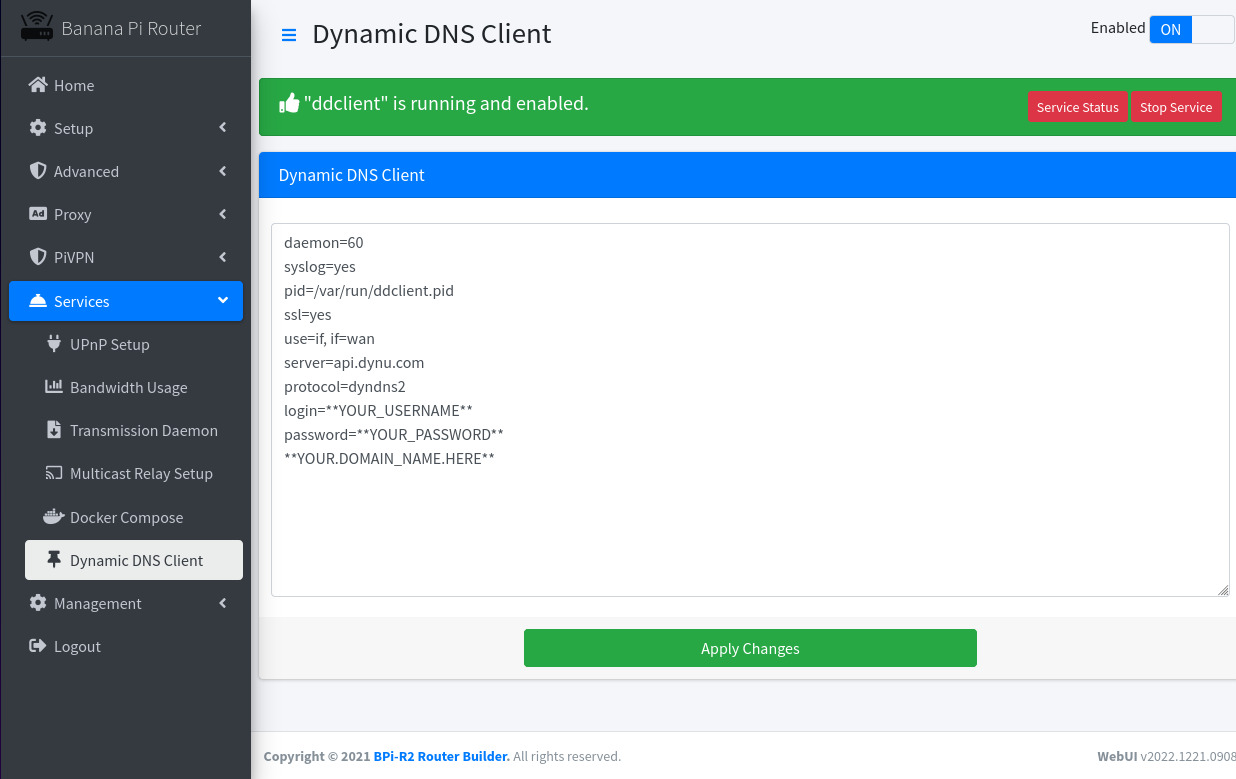
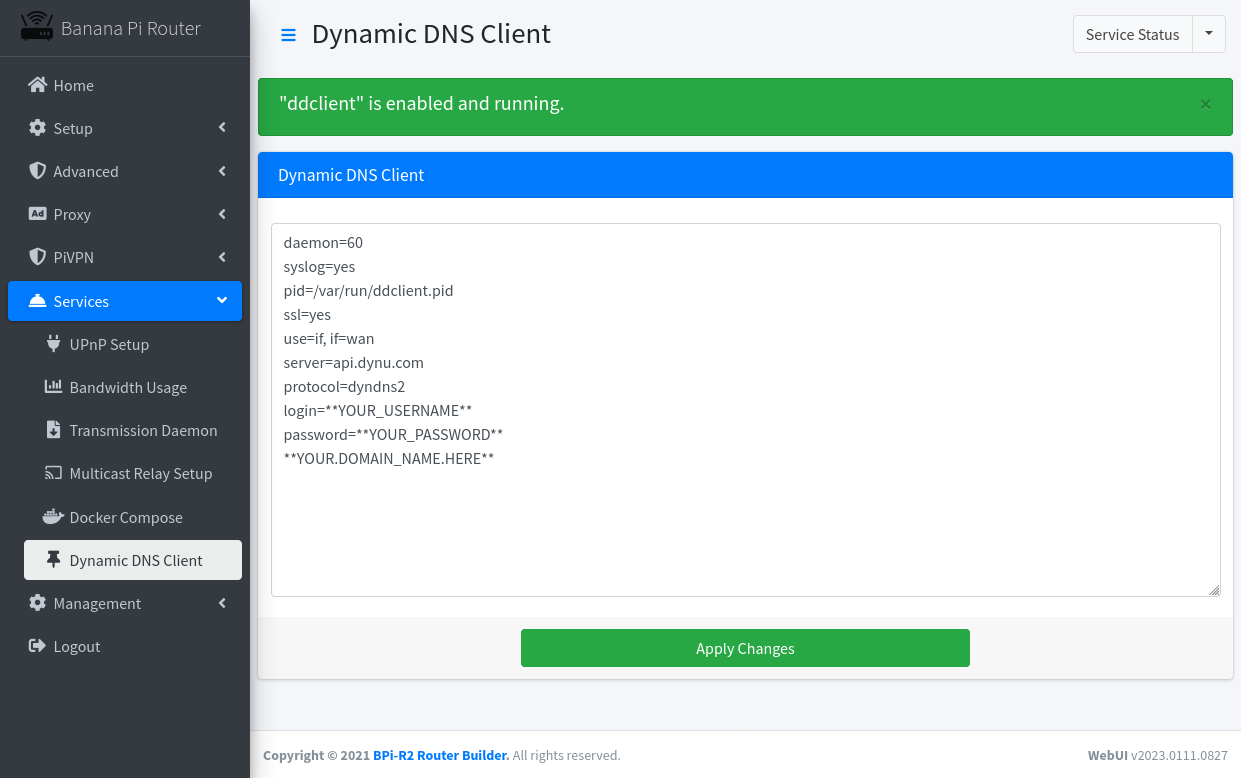
Modified WebUI services appearance

diff --git a/router/js/site-services.js b/router/js/site-services.js
@@ -3,10 +3,6 @@
 //======================================================================================================
 function __Services_Init(service)
 {
-	$("#refresh_switch").bootstrapSwitch();
-	$("#refresh_switch").on('switchChange.bootstrapSwitch', function(event, state) {
-		__Service_Call( state ? 'enable' : 'disable', service, state );
-	});
 	$("#service_status").click(function() {
 		__Service_Call( 'status', service );
 	});
@@ -15,6 +11,12 @@ function __Services_Init(service)
 	});
 	$("#service_stop").click(function() {
 		__Service_Call( 'stop', service );
+	});
+	$("#service_enable").click(function() {
+		__Service_Call( 'enable', service );
+	});
+	$("#service_disable").click(function() {
+		__Service_Call( 'disable', service );
 	});
 }
 

diff --git a/router/js/site-proxy.js b/router/js/site-proxy.js
@@ -4,6 +4,7 @@
 function Init_Filters()
 {
 	// Handler to submit password-change form:
+	__Services_Init("privoxy");
 	$("#apply_changes").click(function() {
 		var postdata = $('.filters:checkbox:checked').map(function() {
 			return this.value;

diff --git a/router/includes/services.php b/router/includes/services.php
@@ -23,28 +23,30 @@ else if (empty($called_as_sub))
 #############################################################################################
 function services_start($service, $header = true)
 {
-	# Output site header with switch to enable service:
 	$enabled = trim(@shell_exec("systemctl is-enabled " . $service)) == "enabled";
-	if ($header)
-		site_menu(true, "Enabled", $enabled);
+	$active = trim(@shell_exec("systemctl is-active " . $service)) == "active";
+	$mode = ($enabled && $active) ? "success" : (($enabled && !$active) ? "warning" : ((!$enabled && $active) ? "info" : "danger"));
 
-	# Output an alert box showing the service isn't running, and why it must be started:
-	if (trim(@shell_exec("systemctl is-active " . $service)) == "inactive")
-		echo '
-	<div class="alert alert-danger" id="disabled_div">
+	# Output site header with switch to enable service:
+	site_menu('
 		<div class="float-right">
-			<button type="button" id="service_status" class="btn btn-sm bg-success">Service Status</button>
-			<button type="button" id="service_start" class="btn btn-sm bg-success">Start Service</button>
-		</div>
-		<h5><i class="fas fa-ban"></i> &quot;', $service, '&quot; is ', !$enabled ? '<strong>NOT</strong> ' : '', 'enabled and <strong>NOT</strong> running.</h5>
-	</div>';
-	else
-		echo '
-	<div class="alert alert-success">
-		<div class="float-right">
-			<button type="button" id="service_status" class="btn btn-sm bg-danger">Service Status</button>
-			<button type="button" id="service_stop" class="btn btn-sm bg-danger">Stop Service</button>
-		</div>
-		<h5><i class="fas fa-thumbs-up"></i> &quot;', $service, '&quot; is running', $enabled ? ' and ' : ', but <strong>NOT</strong> ', 'enabled.</h5>
+			<div class="btn-group">
+				<button type="button" class="btn btn-default" id="service_status">Service Status</button>
+				<button type="button" class="btn btn-default dropdown-toggle dropdown-icon" data-toggle="dropdown">
+					<span class="sr-only">Toggle Dropdown</span>
+				</button>
+				<div class="dropdown-menu" role="menu">
+					<a class="dropdown-item" href="#" id="service_start">Start Service</a>
+					<a class="dropdown-item" href="#" id="service_stop">Stop Service</a>
+					<div class="dropdown-divider"></div>
+					<a class="dropdown-item" href="#" id="service_enable">Enable Service</a>
+					<a class="dropdown-item" href="#" id="service_enable">Disable Service</a>
+				</div>
+			</div>
+		</div>');
+	echo '
+	<div class="alert alert-' . $mode . ' alert-dismissible"" id="disabled_div">
+		<button type="button" class="close" data-dismiss="alert" aria-hidden="true">×</button>
+		<h5>&quot;', $service, '&quot; is ', !$enabled ? '<strong>NOT</strong> ' : '', 'enabled', $enabled && !$active ? ', but ' : ' and ', !$active ? '<strong>NOT</strong> ' : '', 'running.</h5>
 	</div>';
 }

diff --git a/router/includes/subs/site.php b/router/includes/subs/site.php
@@ -27,9 +27,8 @@ $sidebar_menu = array(
 		'notify'    => menu_link('/advanced/notify', 'DHCP Notifications', 'fas fa-bullhorn', file_exists("/usr/bin/mosquitto_pub")),
 	)),
 	'proxy'  => array('Proxy', 'fas fa-ad', array(
-		'overview'  => menu_link('/proxy/overview', 'Proxy Services', 'fas fa-cog'),
+		'privoxy'   => menu_link('/proxy/privoxy', 'Privoxy Filters', 'fas fa-filter'),
 		#'blacklist' => menu_link('/proxy/blacklist', 'Website Blacklists', 'fas fa-filter'),
-		'filters'   => menu_link('/proxy/filters', 'Privoxy Filters', 'fas fa-filter'),
 	)),
 	'pivpn'  => array('PiVPN', 'fas fa-shield-alt', array(
 		'services'   => menu_link('/pivpn/services', 'Services', 'fas fa-cog'),
@@ -170,7 +169,7 @@ function menu_log()
 ################################################################################################################
 # Function that outputs the sidebar menu, and the header if not already done:
 ################################################################################################################
-function site_menu($refresh_switch = false, $refresh_text = "Refresh", $refresh_checked = true)
+function site_menu($refresh_switch = false)
 {
 	global $site_title, $header_done, $sidebar_menu, $logged_in, $output_null, $layout_fixed;
 
@@ -223,10 +222,8 @@ echo '
 					<div class="col-sm-6">
 						<a class="float-left nav-link" data-widget="pushmenu" href="#" role="button"><i class="fas fa-bars"></i></a>
 						<h1>', $site_title, '</h1>
-					</div>', $refresh_switch ? '
-					<div class="col-sm-6">
-						<span class="float-right">' . $refresh_text . ' <input type="checkbox" id="refresh_switch" ' . ($refresh_checked ? ' checked' : '') . ' data-bootstrap-switch></span>
-					</div>' : '', '
+					</div>
+					', !empty($refresh_switch) ? '<div class="col-sm-6">' . $refresh_switch . '</div>': '', '
             	</div>
 			</div><!-- /.container-fluid -->
 		</section>';
@@ -290,9 +287,11 @@ function site_footer($init_str = '')
 <script src="/js/site.js', $post_js, '"></script>';
 
 	# Include any additional javascript files requested by the pages:
-	if (!empty($include_js))
+	if (!is_array($include_js))
+		$include_js = array($include_js);
+	foreach ($include_js as $js)
 		echo '
-<script src="/js/', $include_js, '.js', $post_js, '"></script>';
+<script src="/js/', $js, '.js', $post_js, '"></script>';
 
 	# Insert the SID we're using, and set the login/logout handlers:
 	echo '

diff --git a/router/includes/proxy-privoxy.php b/router/includes/proxy-privoxy.php
@@ -1,6 +1,9 @@
 <?php
+$called_as_sub = true;
+require_once("services.php");
 $count = 0;
 $file = @file_get_contents("/etc/privoxy/blocklist.conf");
+$include_js = array($include_js, 'site-services');
 
 #################################################################################################
 # If action specified and invalid SID passed, force a reload of the page.  Otherwise:
@@ -44,7 +47,7 @@ function filter($short, $description, $url)
 #################################################################################################
 # Main code for this page:
 #################################################################################################
-site_menu();
+services_start('privoxy');
 echo '
 <div class="alert alert-info">
 	<h5><i class="icon fas fa-info"></i> About these Adblocking Lists</h5>

diff --git a/router/includes/home.php b/router/includes/home.php
@@ -147,7 +147,10 @@ if (isset($_GET['sid']))
 #######################################################################################################
 # Start the page:
 #######################################################################################################
-site_menu(true);
+site_menu(
+	'<div class="col-sm-6">' .
+		'<span class="float-right">Refresh <input type="checkbox" id="refresh_switch" checked="checked" data-bootstrap-switch></span>' .
+	'</div>');
 
 #######################################################################################################
 # Display system temperature:
